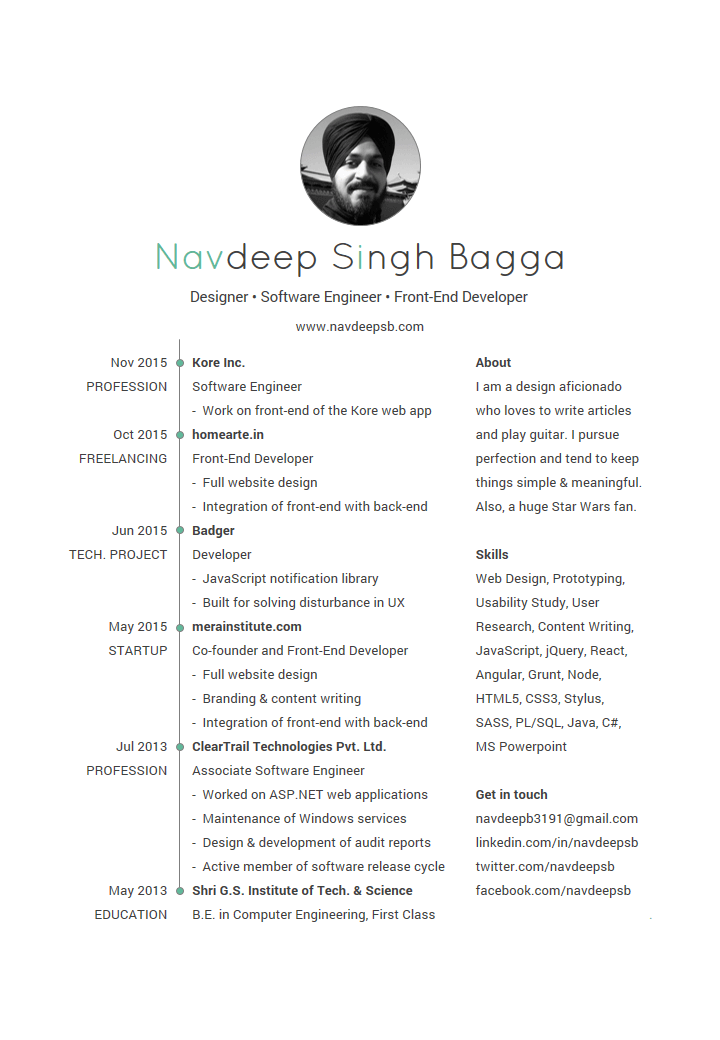
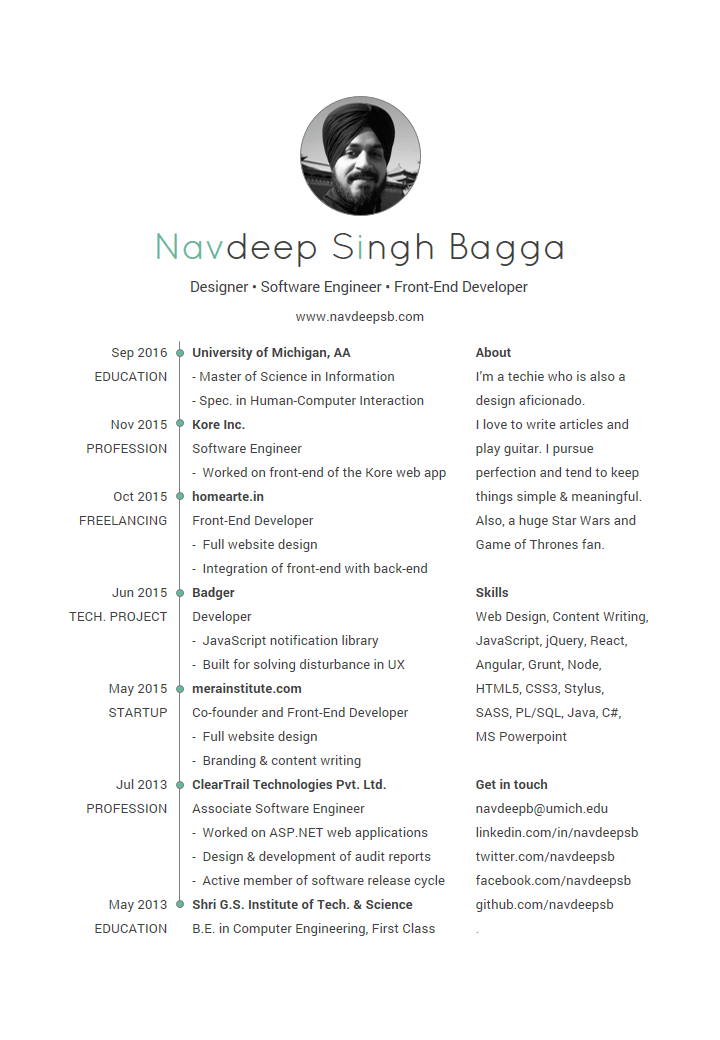
Adding UMich details
Go Blue!

Changed region(s): [[0.0917, 0.0923, 0.7944, 0.9231], [0.6417, 0.3385, 0.8861, 0.8923]]

diff --git a/index.html b/index.html
@@ -3,7 +3,7 @@
 <head>
 	<meta http-equiv="content-type" content="text/html; charset=utf-8">
 	<meta name="viewport" content="width=device-width, initial-scale=1.0">
-	<meta name="description" content="Portfolio of Navdeep Singh Bagga a.k.a. Navi - navdeepsb">
+	<meta name="description" content="Portfolio of Navdeep Singh Bagga a.k.a. Navi | navdeepsb.com">
 	<title>Navdeep Singh Bagga | navdeepsb</title>
 	<link rel="stylesheet" href="https://fonts.googleapis.com/css?family=Roboto">
 	<link rel="stylesheet" href="https://fonts.googleapis.com/css?family=Roboto+Slab">
@@ -57,12 +57,12 @@
         <span class="string">"Projects"</span>, <span class="comment">// A collection of my projects</span>
         <span class="string">"Creative Writing"</span>, <span class="comment">// Some of my thought exaggerations</span>
         <span class="string">"Drawings"</span>, <span class="comment">// A sneak-peek into my childhood</span>
-        <span class="string">"Professional Experience"</span>, <span class="comment">// My work life</span>
+        <span class="string">"Overall Experience"</span>, <span class="comment">// Summary of my life</span>
         <span class="string">"Connect With Me"</span>, <span class="comment">// My social presence</span>
         <span class="string">"Built With"</span> <span class="comment">// Attributions and humble thanks</span>
     ];
 
-    <span class="comment">// Abstracting the implementation, please bear with me ;P</span>
+    <span class="comment">// Abstracting the implementation, please bear with me ;-P</span>
     <span class="keyword">var</span> <span class="identifier">jumpTo</span> = <span class="keyword">function</span>( <span class="param">contentItem</span> ) {<span class="comment">...</span>};
 
     <span class="comment">// Now let's go places</span>
@@ -72,10 +72,10 @@
     	<option value="1">Projects</option>
     	<option value="2">Creative Writing</option>
     	<option value="3">Drawings</option>
-    	<option value="4">Professional Experience</option>
+    	<option value="4">Overall Experience</option>
     	<option value="5">Connect With Me</option>
     	<option value="6">Built With</option>
-    </select> ); <span class="comment">// 0-based index, remember</span>
+    </select> );
 })();<!--
 				--></code></pre>
 			</div><!-- .code__inner -->
@@ -86,16 +86,16 @@
 		<h1 class="font--serif align--center">
 			<span class="underline">About Me</span>
 		</h1>
-		<p>Hey! I am <span class="cherrylove">Navdeep</span> and this is my portfolio. I hail from <span class="grassygreen">India</span> and like you, I am a nerd. A software engineer by profession, I love working on front-end technologies; <span class="goldenapple">JavaScript</span> being my favourite. I love listening to Classic Rock, revering <span class="summersky">Led Zeppelin</span> as eternal Gods. In some parallel universe, I am a padawan of <span class="crimson">Obi-Wan Kenobi</span> wielding a <span class="greensaber">green lightsaber</span>. God! I love <span class="brightyellow">Star Wars</span> - the best thing ever happened to me!</p>
-		<p>I love using <span class="grassygreen">pastel colors</span> and <span class="peacock">2D shapes</span> in my designs. My unreasonable infatuation for <span class="babypink">monospace fonts</span> is always reflected in my work.</p>
-		<p>Oh and I am a <span class="summersky">Madridista</span>, totally into European football. Hala Madrid!</p>
+		<p>Hey! I'm <span class="cherrylove">Navdeep</span>, you can also call me <span class="cherrylove">Navi</span>. I hail from <span class="grassygreen">India</span> and like most of you, I'm a #nerd. Presently, I'm a student at <span class="brightyellow" title="Go Blue!">University of Michigan</span> at Ann Arbor pursuing my <span class="peacock">Master of Science in Information</span> starting fall '16. I have three years of work experience in the <span class="summersky">IT industry</span>, including a 6-month stint of entrepreneurship. I have a penchant for <span class="goldenapple">JavaScript</span> and web designing. I love using <span class="greensaber">pastel colors</span> and <span class="peacock">2D shapes</span> in my designs. My unreasonable infatuation for <span class="babypink">monospace fonts</span> is always reflected in my work.</p>
+		<p>In my free time I like to write articles, play guitar and just wander. A <span class="summersky">Nature</span> lover and a huge fan of <span class="grassygreen">Psychedelic Rock</span> and <span class="crimson">Classic Rock</span>. I find much peace in grooving to the likes of Tame Impala, King Gizzard & the Lizard Wizard, The Beatles, Pink Floyd and of course, Led Zeppelin. A <span class="brightyellow" title="May the Force be with you.">Star Wars</span> and <span class="goldenapple" title="Winter is coming!">Game of Thrones</span> fan too.</p>
+		<p>Oh and I'm a <span class="summersky">Madridista</span>, totally into European football. Hala Madrid!</p>
 	</section><!-- .section-about -->
 
 	<section class="section-projects">
 		<h1 class="font--serif align--center">
 			<span class="underline">Projects</span>
 		</h1>
-		<p class="align--center">Below is an array of my favourite projects. Click on any one of them for details.</p>
+		<p class="align--center">Below is an array of my favorite projects. Click on any one of them for details.</p>
 		<div class="grid align--center">
 			<div class="col col-4">
 				<a href="/merainstitute" class="project">
@@ -117,7 +117,7 @@
 				<a href="/badger" class="project">
 					<img src="assets/img/badger.png" alt="badger" width="160">
 					<h2>BadgerJS</h2>
-					<p>A JavaScript notification library for web applications.</p>
+					<p>A JavaScript notification library for web apps.</p>
 					<p class="tsize--small">#PersonalProject #WebDeveloper</p>
 				</a><!-- .project -->
 			</div><!-- .col -->
@@ -227,16 +227,29 @@
 
 	<section class="section-xp">
 		<h1 class="font--serif align--center">
-			<span class="underline">Professional Experience</span>
+			<span class="underline">Overall Experience</span>
 		</h1>
 		<div class="xp grid">
 			<div class="col col-4">
-				<strong>Nov 2015 - present</strong>
+				<strong>Sep 2016 - present</strong>
+			</div><!-- .col -->
+			<div class="col col-8">
+				Student at University of Michigan, Ann Arbor <a href="#reveal" class="toggle tsize--small" data-target="#umich" tabindex="-1">view details</a>
+				<ul id="umich" class="hide">
+					<li>Pursuing Master of Science in Information</li>
+					<li>Specializing in Human-Computer Interaction (HCI)</li>
+					<li>Go Blue!</li>
+				</ul>
+			</div><!-- .col -->
+		</div><!-- .xp.grid -->
+		<div class="xp grid">
+			<div class="col col-4">
+				<strong>Nov 2015 - Jun 2016</strong>
 			</div><!-- .col -->
 			<div class="col col-8">
 				Software Engineer at Kore Inc., Hyderabad <a href="#reveal" class="toggle tsize--small" data-target="#kore" tabindex="-1">view details</a>
 				<ul id="kore" class="hide">
-					<li>Part of team looking after client-side aspects of enterprise admin console of Kore’s web application</li>
+					<li>Part of team looking after client-side aspects of enterprise admin console of the Kore web app</li>
 					<li>Primary work on JavaScript, jQuery, Handlebars, HTML5 and CSS3</li>
 				</ul>
 			</div><!-- .col -->
@@ -264,7 +277,7 @@
 				<ul id="cleartrail" class="hide">
 					<li>Responsible for maintaining audit reports that present complex data to user in a simplified manner</li>
 					<li>Active member of software release cycle</li>
-					<li>Primary work on C# ASP.NET web applications, Windows services, MS SQL Server, HTML5, CSS3 and JavaScript</li>
+					<li>Primary work on C# ASP.NET web apps, Windows services, MS SQL Server, HTML5, CSS3 and JavaScript</li>
 				</ul>
 			</div><!-- .col -->
 		</div><!-- .xp.grid -->
@@ -285,7 +298,7 @@
 		<h1 class="font--serif align--center">
 			<span class="underline">Connect With Me</span>
 		</h1>
-		<p class="align--center">I keep regular tabs on the following, feel free to ping me...</p>
+		<p class="align--center">I keep regular tabs on the following, feel free to ping me anytime...</p>
 		<p class="align--center">
 			<a href="mailto:navdeepb3191@gmail.com" rel="nofollow" target="_blank" title="navdeepb3191@gmail.com" tabindex="-1">
 				<span class="fa fa-envelope-o fa-2x"></span>
@@ -298,9 +311,6 @@
 			</a>
 			<a href="https://www.twitter.com/navdeepsb" rel="nofollow" target="_blank" title="@navdeepsb" tabindex="-1">
 				<span class="fa fa-twitter fa-2x"></span>
-			</a>
-			<a href="https://github.com/navdeepsb" rel="nofollow" target="_blank" title="navdeepsb" tabindex="-1">
-				<span class="fa fa-github fa-2x"></span>
 			</a>
 		</p>
 		<p class="align--center">Get my resume from <a href="assets/img/Resume - Navdeep Singh Bagga.png" class="np" target="_blank">here</a>.</p>

diff --git a/homearte/index.html b/homearte/index.html
@@ -65,7 +65,7 @@
 
 	<section class="ha-conclusion">
 		<h2 class="font--serif">Conclusion</h2>
-		<p>homearte was my freelancing project that I justified properly. The website has a soothing aura that appeals to all.</p>
+		<p>HomeArte was my freelancing project that I justified properly. The website has a soothing aura that appeals to all.</p>
 	</section>
 
 	<section>

diff --git a/assets/css/colours.css b/assets/css/colours.css
@@ -27,9 +27,13 @@
 }
 
 .babypink {
-	color: #F04155;
+	color: #f04155;
 }
 
 .peacock {
 	color: #036564;
+}
+
+.maize {
+	color: #fbec5d;
 }
